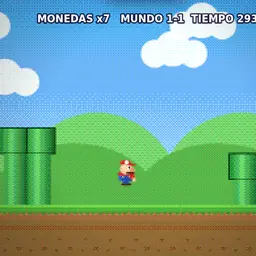
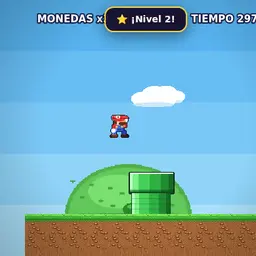
Super Koke: sprites pixel art dibujados a mano (casillas 32px)

diff --git a/mario.html b/mario.html
@@ -1,6 +1,6 @@
 <!doctype html><html lang="es"><head><script src="mute.js"></script><script src="progress.js"></script><script>try{var A=navigator.audioSession;if(A){A.type="ambient";Object.defineProperty(A,"type",{get:function(){return"ambient"},set:function(v){},configurable:true})}}catch(e){}</script><script src="bgm.js" data-track="aventura"></script><meta charset="utf-8"><meta name="viewport" content="width=device-width,initial-scale=1,maximum-scale=1,user-scalable=no,viewport-fit=cover"><meta name="apple-mobile-web-app-status-bar-style" content="black"><meta name="apple-mobile-web-app-capable" content="yes"><meta name="theme-color" content="#4aa8f0"><title>SUPER KOKE</title></head><body><script src="gk.js"></script><script>
 (function(){
-var ROWS=12,TS=39,lv=0,LV=3,G,Wd,en,items,coinsL,pl,cam,t,lives,coins,state,stT,seed,jumpHeld=false,keys={},btn={l:0,r:0,j:0,run:0},blocks,fx,flagX,time,msgT,msg,score0,bump,ptc;
+var ROWS=12,TS=32,lv=0,LV=3,G,Wd,en,items,coinsL,pl,cam,t,lives,coins,state,stT,seed,jumpHeld=false,keys={},btn={l:0,r:0,j:0,run:0},blocks,fx,flagX,time,msgT,msg,score0,bump,ptc;
 function rs(){seed=(seed*16807)%2147483647;return seed/2147483647}
 function R(a,b){return a+rs()*(b-a)}
 function set(x,y,ch){if(x>=0&&x<Wd&&y>=0&&y<ROWS)G[y][x]=ch}
@@ -78,59 +78,97 @@ function update(dt){t+=dt;msgT-=dt;
 function burstE(e){for(var i=0;i<6;i++)fx.push({x:e.x+.5,y:e.y+.5,vx:R(-4,4),vy:R(-9,-2),t:.5,c:'#e8d8a8'})}
 function TSf(){return TS}
 /* ---------- dibujo ---------- */
-function drawHero(c,x,y,s,big,face,an,inv,air){c.save();c.translate(x,y);c.scale(face*s,s);if(inv>0&&Math.floor(inv*14)%2)c.globalAlpha=.4;var h=big?1.85:.95,k=big?1:.5,sw=Math.sin(an)*.22,bob=Math.abs(Math.sin(an))*.03;
- // sombra
- var sc=big?1:.62;c.save();c.translate(0,-.0);
+/* ---------- arte pixel (procedural, 32px por casilla) ---------- */
+var SP={};
+(function(){var P=GK.px,sd=7;function rn(){sd=(sd*16807)%2147483647;return sd/2147483647}
+function T(fn,out){return GK.mkd(32,32,function(x){fn(x)},{out:!!out,sh:false})}
+function sp(x,n,cols,a,b,w,h){for(var i=0;i<n;i++){x.fillStyle=cols[(rn()*cols.length)|0];x.fillRect(a+((rn()*w)|0),b+((rn()*h)|0),1,1)}}
+// suelo
+SP.G=T(function(x){P.r(x,0,0,32,32,'#a8683a');sp(x,90,['#8a5028','#c88a4a','#7a4420','#b87a40'],0,8,32,24);for(var i=0;i<7;i++){var px=(rn()*26)|0,py=12+((rn()*16)|0);P.e(x,px+3,py+2,3,2,'#6a3a18');P.e(x,px+3,py+1.5,2,1,'#d8a468')}
+ P.r(x,0,0,32,9,'#46b838');P.r(x,0,0,32,3,'#7ae858');P.r(x,0,7,32,2,'#2a8a28');for(var k=0;k<8;k++){P.t(x,[k*4,9,k*4+2,13,k*4+4,9],'#2a8a28');P.t(x,[k*4+1,9,k*4+2,11,k*4+3,9],'#46b838')}sp(x,26,['#9af070','#2f9a2c'],0,0,32,8)});
+SP.D=T(function(x){P.r(x,0,0,32,32,'#a8683a');sp(x,150,['#8a5028','#c88a4a','#7a4420','#b87a40'],0,0,32,32);for(var i=0;i<6;i++){var px=(rn()*26)|0,py=(rn()*26)|0;P.e(x,px+3,py+2,3,2,'#6a3a18');P.e(x,px+3,py+1.5,2,1,'#d8a468')}});
+SP.B=T(function(x){P.r(x,0,0,32,32,'#a8401a');for(var j=0;j<4;j++){var y=j*8,o=(j&1)?8:0;P.r(x,0,y,32,1,'#f0a060');P.r(x,0,y+7,32,1,'#4a1a08');for(var i=-1;i<3;i++){var bx=i*16+o;P.r(x,bx+1,y+1,14,6,j%2?'#c85a28':'#d06a30');P.r(x,bx+1,y+1,14,1,'#f09050');P.r(x,bx+1,y+6,14,1,'#8a3410');P.r(x,bx+15,y,1,8,'#4a1a08')}}sp(x,40,['#e88a50','#8a3410'],0,0,32,32)});
+function qb(f){return T(function(x){P.r(x,0,0,32,32,'#7a4a08');P.r(x,1,1,30,30,'#f0b020');P.r(x,2,2,28,26,'#ffd040');P.r(x,2,2,28,2,'#fff0a0');P.r(x,2,2,2,26,'#fff0a0');P.r(x,2,27,28,3,'#c88410');P.r(x,28,2,2,26,'#c88410');[[4,4],[26,4],[4,26],[26,26]].forEach(function(p){P.e(x,p[0]+.5,p[1]+.5,1.6,1.6,'#8a5a08');P.p(x,p[0],p[1],'#ffe080')});
+ x.fillStyle='#6a3a04';var g=[[11,8,10,4],[19,10,4,6],[15,16,6,4],[14,22,4,4]];g.forEach(function(r){x.fillRect(r[0],r[1],r[2],r[3])});x.fillRect(9,11,4,5);P.r(x,13,7,8,2,'#6a3a04');P.r(x,21,9,3,2,'#6a3a04');
+ x.fillStyle='#fff6c0';x.fillRect(11,8,10,1);x.fillRect(9,11,1,4);x.fillRect(14,22,1,4);var sh=Math.floor(f*10)%10;if(f>=0){x.fillStyle='rgba(255,255,255,.85)';x.fillRect(2+sh*3,2,2,26);x.fillStyle='rgba(255,255,255,.5)';x.fillRect(4+sh*3,2,2,26)}})}
+SP.q=[0,1,2,3,4,5].map(function(i){return qb(i/6)});
+SP.U=T(function(x){P.r(x,0,0,32,32,'#4a3220');P.r(x,1,1,30,30,'#8a6a48');P.r(x,2,2,28,26,'#a8845c');P.r(x,2,2,28,2,'#c8a47c');P.r(x,2,27,28,3,'#6a4a2c');P.r(x,28,2,2,26,'#6a4a2c');sp(x,40,['#9a7a52','#b8946a'],3,4,24,22)});
+SP.W=T(function(x){P.r(x,0,0,32,32,'#a89a8c');for(var j=0;j<4;j++){var o=j&1?8:0;P.r(x,0,j*8,32,1,'#5a4a3a');for(var i=-1;i<3;i++){P.r(x,i*16+o,j*8,1,8,'#5a4a3a');P.r(x,i*16+o+1,j*8+1,14,1,'#c8bcb0');P.r(x,i*16+o+1,j*8+6,14,1,'#8a7c6e')}}sp(x,30,['#9a8c7e','#b8aca0'],0,0,32,32)});
+// tuberias (2 casillas de ancho)
+function pcols(w,x,y0,h){var cols=['#b8ffc0','#7af088','#46d058','#2fb040','#228a34','#176a28'];for(var i=0;i<w;i++){var u=i/w;var c3=u<.07?cols[0]:u<.2?cols[1]:u<.45?cols[2]:u<.7?cols[3]:u<.88?cols[4]:cols[5];P.r(x,i,y0,1,h,c3)}}
+SP.pc=GK.mkd(68,32,function(x){pcols(68,x,0,32);P.r(x,0,0,68,2,'#d8ffd8');P.r(x,0,29,68,3,'#0e4a1a');P.r(x,0,0,1,32,'#0e4a1a');P.r(x,67,0,1,32,'#0e4a1a');P.r(x,0,26,68,3,'rgba(10,70,30,.5)')},{out:true,sh:false});
+SP.pb=GK.mkd(60,32,function(x){pcols(60,x,0,32);P.r(x,0,0,1,32,'#0e4a1a');P.r(x,59,0,1,32,'#0e4a1a');for(var j=0;j<32;j+=8)P.r(x,1,j,58,1,'rgba(10,70,30,.25)')},{out:false,sh:false});
+// bandera
+SP.F=GK.mkd(32,32,function(x){P.r(x,13,0,6,32,'#aab0c0');P.r(x,13,0,2,32,'#e8ecf4');P.r(x,17,0,2,32,'#6a7088')},{out:false,sh:false});
+SP.f=GK.mkd(32,32,function(x){P.r(x,13,12,6,20,'#aab0c0');P.r(x,13,12,2,20,'#e8ecf4');P.e(x,16,10,8,8,'#ffd23a');P.e(x,14,8,3,3,'#fff6a0');P.e(x,16,10,8,8,'rgba(0,0,0,0)')},{out:false,sh:false});
+SP.flag=GK.mkd(30,22,function(x){P.t(x,[0,11,30,0,30,22],'#e8302a');P.t(x,[0,11,30,0,30,5],'#ff6a5a');P.e(x,22,11,4,4,'#fff')},{out:true,sh:false});
+// moneda
+SP.c=[0,1,2,3].map(function(i){var w=[14,9,4,9][i];return GK.mkd(20,28,function(x){P.e(x,10,14,w/2+.5,13,'#c88a08');P.e(x,10,14,w/2-.5,12,'#ffd23a');P.e(x,10-w*.12,11,Math.max(.8,w/6),6,'#fff2a0');if(w>8){P.r(x,9,8,2,12,'#e8a818')}},{out:true,sh:false})});
+// heroe
+function hero(big,pose){var Hh=big?58:34;return GK.mkd(28,Hh,function(x){var cap='#e8302a',capD='#a81c1c',capL='#ff7a6a',sk='#ffd2a4',skD='#e09a6c',hr='#5a3416',ov='#3a66e4',ovD='#2646aa',ovL='#7a9cff',gl='#ffffff',sh='#6a3a1a',shD='#3e2010';
+ var ly=big?42:23,top=big?16:12,ap=pose===3;
  // piernas
- var ly=-.34*sc;c.fillStyle='#2a4aa8';c.beginPath();c.roundRect(-.2+sw*.5,ly,.2,.34*sc,.05);c.roundRect(.0-sw*.5,ly,.2,.34*sc,.05);c.fill();c.fillStyle='#5a2a14';c.beginPath();c.roundRect(-.26+sw*.5,-.1*sc,.3,.1*sc,.04);c.roundRect(-.02-sw*.5,-.1*sc,.3,.1*sc,.04);c.fill();
- if(air){c.restore();c.save();c.translate(0,0)}
+ var lA=0,lB=0,fA=0,fB=0;if(pose===1){lA=-3;lB=3;fA=-2;fB=3}else if(pose===2){lA=3;lB=-3;fA=3;fB=-2}else if(pose===3){lA=-4;lB=3}
+ var lh=Hh-ly-4;P.r(x,7+lA,ly,6,lh,ov);P.r(x,15+lB,ly,6,lh,ovD);P.r(x,7+lA,ly,2,lh,ovL);
+ P.r(x,5+lA+fA,Hh-5,10,4,sh);P.r(x,4+lA+fA,Hh-4,3,3,shD);P.r(x,5+lA+fA,Hh-5,10,1,'#9a5a2a');P.r(x,14+lB+fB,Hh-5,10,4,shD);P.r(x,22+lB+fB,Hh-4,3,3,'#2a1408');
  // torso
- var ty=-.8*sc;var g=c.createLinearGradient(-.25,0,.25,0);g.addColorStop(0,'#3a62d0');g.addColorStop(1,'#243e90');c.fillStyle=g;c.beginPath();c.roundRect(-.25,ty+.1*sc,.5,.48*sc,.08);c.fill();c.fillStyle='#d8302a';c.beginPath();c.roundRect(-.27,ty+.1*sc,.54,.18*sc,.06);c.fill();c.fillStyle='#ffd23a';c.beginPath();c.arc(-.1,ty+.34*sc,.03,0,7);c.arc(.1,ty+.34*sc,.03,0,7);c.fill();
- // brazo
- c.fillStyle='#d8302a';c.beginPath();c.roundRect(.12,ty+.12*sc,.16,.34*sc,.06);c.fill();c.fillStyle='#f4c8a0';c.beginPath();c.arc(.22+sw*.2,ty+.5*sc,.07,0,7);c.fill();
+ var th=ly-top+1;P.r(x,7,top,14,th,ov);P.r(x,7,top,3,th,ovL);P.r(x,18,top,3,th,ovD);P.r(x,6,top,16,Math.round(th*.28),cap);P.r(x,6,top,16,1,capL);P.r(x,6,top+Math.round(th*.28)-1,16,1,capD);
+ P.r(x,9,top+1,2,th*.45,ov);P.r(x,17,top+1,2,th*.45,ov);P.e(x,10,top+Math.round(th*.4),1.6,1.6,'#ffd23a');P.e(x,18,top+Math.round(th*.4),1.6,1.6,'#ffd23a');P.r(x,11,ly-3,6,3,ovD);
+ // brazos
+ if(ap){P.r(x,20,top-3,5,9,cap);P.r(x,20,top-3,2,9,capL);P.e(x,23,top-5,3.4,3.4,gl);P.r(x,3,top+2,5,8,cap);P.e(x,5,top+11,3.2,3.2,gl)}
+ else{var sw=pose===1?2:pose===2?-2:0;P.r(x,19+sw,top+1,5,Math.round(th*.45),cap);P.r(x,19+sw,top+1,2,Math.round(th*.45),capL);P.e(x,22+sw,top+Math.round(th*.45)+3,3.2,3.2,gl);P.r(x,3-sw,top+1,5,Math.round(th*.4),capD);P.e(x,5-sw,top+Math.round(th*.4)+3,3,3,gl)}
  // cabeza
- var hy=-1.0*sc;if(!big)hy=-.88*sc;var hg=c.createRadialGradient(-.05,hy-.05,.02,0,hy,.3);hg.addColorStop(0,'#ffd8b0');hg.addColorStop(1,'#e8a878');c.fillStyle=hg;c.beginPath();c.ellipse(0,hy,.27*sc+.04,.27*sc+.03,0,0,7);c.fill();c.fillStyle='#e89a68';c.beginPath();c.ellipse(.2,hy+.04,.09,.08,0,0,7);c.fill();
- c.fillStyle='#fff';c.beginPath();c.ellipse(.09,hy-.04,.06,.075,0,0,7);c.fill();c.fillStyle='#111';c.beginPath();c.arc(.11,hy-.04,.032,0,7);c.fill();c.fillStyle='#4a2a14';c.beginPath();c.roundRect(.0,hy+.1,.28,.07,.03);c.fill();
+ P.e(x,14,7.5,8.8,7.6,sk);P.e(x,10,6,4,3,'#ffe6c4');P.e(x,19.5,9.5,3.6,3.2,skD);
+ P.e(x,12.5,6.8,2,2.6,'#fff');P.r(x,13,6,2,3,'#16101f');P.p(x,13,6,'#8ab0ff');
+ P.e(x,21,9.5,3,2.4,skD);P.r(x,13,11,11,3,hr);P.r(x,14,10,10,1,hr);P.r(x,15,14,4,1,hr);
+ P.r(x,5,5,5,8,hr);P.r(x,6,3,4,3,hr);
  // gorra
- c.fillStyle='#d8302a';c.beginPath();c.ellipse(-.02,hy-.14,.29*sc+.02,.2*sc+.03,0,Math.PI,0);c.fill();c.beginPath();c.roundRect(.05,hy-.17,.28,.07,.03);c.fill();c.fillStyle='#fff';c.beginPath();c.arc(.02,hy-.22,.07,0,7);c.fill();
- c.restore();c.restore()}
-function drawGoomba(c,e,x,y,s){c.save();c.translate(x,y);c.scale(s,s);if(e.dead){c.scale(1,.25);c.translate(0,-.1)}var sw=Math.sin((e.an||0))*.1;shade(c,0,0,.4,.05,'rgba(0,0,0,.2)');c.fillStyle='#3a2410';c.beginPath();c.roundRect(-.28+sw,-.16,.24,.16,.05);c.roundRect(.04-sw,-.16,.24,.16,.05);c.fill();var g=c.createRadialGradient(-.1,-.55,.05,0,-.4,.5);g.addColorStop(0,'#c8844a');g.addColorStop(1,'#7a4a22');c.fillStyle=g;c.beginPath();c.moveTo(-.42,-.2);c.quadraticCurveTo(-.46,-.88,0,-.9);c.quadraticCurveTo(.46,-.88,.42,-.2);c.closePath();c.fill();c.fillStyle='#f0d8b0';c.beginPath();c.roundRect(-.2,-.34,.4,.2,.05);c.fill();c.fillStyle='#fff';c.beginPath();c.ellipse(-.15,-.56,.1,.12,0,0,7);c.ellipse(.15,-.56,.1,.12,0,0,7);c.fill();c.fillStyle='#111';c.beginPath();c.arc(-.12,-.55,.045,0,7);c.arc(.12,-.55,.045,0,7);c.fill();c.strokeStyle='#2a1408';c.lineWidth=.06;c.beginPath();c.moveTo(-.28,-.72);c.lineTo(-.06,-.64);c.moveTo(.28,-.72);c.lineTo(.06,-.64);c.stroke();c.restore()}
-function shade(c,x,y,rx,ry,col){c.fillStyle=col;c.beginPath();c.ellipse(x,y,rx,ry,0,0,7);c.fill()}
-function drawKoopa(c,e,x,y,s){c.save();c.translate(x,y);c.scale(s,s);if(e.vx>0&&e.sh===0)c.scale(-1,1);var sw=Math.sin((e.an||0))*.1;shade(c,0,0,.4,.05,'rgba(0,0,0,.2)');
- if(e.sh===0){c.fillStyle='#f0c850';c.beginPath();c.roundRect(-.2+sw,-.28,.16,.28,.05);c.roundRect(.04-sw,-.28,.16,.28,.05);c.fill();c.fillStyle='#78c850';c.beginPath();c.ellipse(-.2,-.98,.18,.2,0,0,7);c.fill();c.fillStyle='#f4d878';c.beginPath();c.roundRect(-.3,-.96,.2,.1,.04);c.fill();c.fillStyle='#fff';c.beginPath();c.arc(-.24,-1.02,.07,0,7);c.fill();c.fillStyle='#111';c.beginPath();c.arc(-.26,-1.02,.032,0,7);c.fill();c.fillStyle='#78c850';c.beginPath();c.roundRect(-.14,-.9,.28,.4,.1);c.fill()}
- var sy=e.sh===0?-.5:-.05;c.translate(0,e.sh===0?0:0);var g=c.createRadialGradient(-.1,sy-.3,.05,0,sy-.25,.5);g.addColorStop(0,'#58e060');g.addColorStop(1,'#1a8a2a');c.fillStyle=g;c.beginPath();c.ellipse(.05,e.sh===0?-.5:-.32,.4,e.sh===0?.32:.3,0,Math.PI,0);c.lineTo(.45,e.sh===0?-.22:-.02);c.lineTo(-.35,e.sh===0?-.22:-.02);c.fill();c.fillStyle='#f4e8b8';c.fillRect(-.35,e.sh===0?-.24:-.04,.8,.06);c.strokeStyle='#0a5a14';c.lineWidth=.04;c.beginPath();c.moveTo(-.05,e.sh===0?-.78:-.6);c.lineTo(-.05,e.sh===0?-.24:-.04);c.moveTo(.2,e.sh===0?-.74:-.56);c.lineTo(.2,e.sh===0?-.24:-.04);c.stroke();c.restore()}
-function drawTile(c,ch,x,y,s,t,bumpY){var g;switch(ch){
- case 'G':g=c.createLinearGradient(0,y,0,y+s);g.addColorStop(0,'#c08a52');g.addColorStop(1,'#8a5a2a');c.fillStyle=g;c.fillRect(x,y,s+1,s+1);c.fillStyle='#4fb83a';c.fillRect(x,y,s+1,s*.28);c.fillStyle='#7ad850';c.fillRect(x,y,s+1,s*.1);c.fillStyle='#3a9a2a';for(var i=0;i<4;i++){c.beginPath();c.moveTo(x+i*s/4,y+s*.28);c.lineTo(x+i*s/4+s/8,y+s*.4);c.lineTo(x+i*s/4+s/4,y+s*.28);c.fill()}break;
- case 'D':c.fillStyle='#9a6a38';c.fillRect(x,y,s+1,s+1);c.fillStyle='rgba(60,30,10,.25)';c.fillRect(x+s*.2,y+s*.3,s*.15,s*.12);c.fillRect(x+s*.6,y+s*.65,s*.2,s*.12);c.fillRect(x+s*.1,y+s*.75,s*.12,s*.1);break;
- case 'B':c.fillStyle='#c0582a';c.fillRect(x,y,s+1,s+1);c.fillStyle='#e08a50';c.fillRect(x,y,s+1,3);c.strokeStyle='#5a2810';c.lineWidth=2;c.strokeRect(x+1,y+1,s-2,s-2);c.beginPath();c.moveTo(x,y+s/2);c.lineTo(x+s,y+s/2);c.moveTo(x+s/2,y);c.lineTo(x+s/2,y+s/2);c.moveTo(x+s*.25,y+s/2);c.lineTo(x+s*.25,y+s);c.moveTo(x+s*.75,y+s/2);c.lineTo(x+s*.75,y+s);c.stroke();break;
- case '?':case 'M':var pu=.5+.5*Math.sin(t*6);g=c.createLinearGradient(0,y,0,y+s);g.addColorStop(0,'#ffe066');g.addColorStop(1,'#e8a010');c.fillStyle=g;c.beginPath();c.roundRect(x+1,y+1,s-2,s-2,5);c.fill();c.strokeStyle='#8a5a08';c.lineWidth=2;c.stroke();c.fillStyle='rgba(120,70,0,.5)';[[6,6],[s-6,6],[6,s-6],[s-6,s-6]].forEach(function(p){c.beginPath();c.arc(x+p[0],y+p[1],2,0,7);c.fill()});c.fillStyle='#fff';c.font='900 '+(s*.62)+'px sans-serif';c.textAlign='center';c.textBaseline='middle';c.globalAlpha=.7+pu*.3;c.fillText('?',x+s/2,y+s/2+1);c.globalAlpha=1;break;
- case 'U':c.fillStyle='#8a6a4a';c.beginPath();c.roundRect(x+1,y+1,s-2,s-2,5);c.fill();c.strokeStyle='#4a3420';c.lineWidth=2;c.stroke();break;
- case 'p':case 'q':g=c.createLinearGradient(x,0,x+s,0);g.addColorStop(0,'#2a9a3a');g.addColorStop(.4,'#68e070');g.addColorStop(1,'#1a6a2a');c.fillStyle=g;c.fillRect(x-(ch==='p'?4:0),y,s+(ch==='q'?4:0)+(ch==='p'?4:0),s);c.strokeStyle='#0a3a14';c.lineWidth=2;c.strokeRect(x-(ch==='p'?4:0),y,s+4,s);break;
- case 'l':case 'r':g=c.createLinearGradient(x,0,x+s,0);g.addColorStop(0,'#2a9a3a');g.addColorStop(.4,'#68e070');g.addColorStop(1,'#1a6a2a');c.fillStyle=g;c.fillRect(x+(ch==='l'?4:0),y,s-4+1,s+1);break;
- case 'W':c.fillStyle='#b8a090';c.fillRect(x,y,s+1,s+1);c.strokeStyle='#6a5a4a';c.lineWidth=2;c.strokeRect(x,y,s,s);break;
- case 'F':c.fillStyle='#d8dce8';c.fillRect(x+s*.44,y,s*.12,s+1);break;
- case 'f':c.fillStyle='#ffd23a';c.beginPath();c.arc(x+s/2,y+s/2,s*.2,0,7);c.fill();var wv=Math.sin(t*5)*3;c.fillStyle='#e8302a';c.beginPath();c.moveTo(x+s*.5,y+s*.25);c.lineTo(x-s*.7+wv,y+s*.5);c.lineTo(x+s*.5,y+s*.8);c.fill();break;
- case 'c':var sq=Math.abs(Math.cos(t*4+x*.05));c.fillStyle='#ffd23a';c.beginPath();c.ellipse(x+s/2,y+s/2,s*.18*sq+2,s*.28,0,0,7);c.fill();c.strokeStyle='#c88a08';c.lineWidth=2;c.stroke();break}}
-function draw(c,W,H){TS=H/10;var ts=TS,T0=performance.now()/1000,OFF=H-ROWS*TS;
- // cielo
- var sk=c.createLinearGradient(0,0,0,H);sk.addColorStop(0,'#4aa8f0');sk.addColorStop(1,'#bfe6ff');c.fillStyle=sk;c.fillRect(0,0,W,H);
- if(!G)return;var cm=cam*ts;c.save();c.translate(0,OFF);
- // colinas lejanas
- for(var layer=0;layer<2;layer++){var par=layer?.35:.15;c.fillStyle=layer?'#5ab84a':'#7ad06a';for(var hx=-1;hx<W/200+2;hx++){var bx=hx*220-(cm*par)%220,bh=ts*(layer?2.4:3.6);c.beginPath();c.ellipse(bx+100,ts*10,130,bh,0,Math.PI,0);c.fill()}}
- // nubes
- c.fillStyle='rgba(255,255,255,.92)';for(var n=0;n<8;n++){var nx=((n*300-cm*.25)%(W+400)+W+400)%(W+400)-100,ny=ts*(3+(n%3)*1.1);c.beginPath();c.arc(nx,ny,ts*.55,0,7);c.arc(nx+ts*.7,ny-ts*.2,ts*.7,0,7);c.arc(nx+ts*1.5,ny,ts*.55,0,7);c.fill()}
- var x0=Math.floor(cam)-1,x1=Math.ceil(cam+W/ts)+1;
- // castillo
- for(var yy=0;yy<ROWS;yy++)for(var xx=x0;xx<=x1;xx++){var ch=get(xx,yy);if(ch==='.')continue;var bump=0;blocks.forEach(function(b){if(b.x===xx&&b.y===yy)bump=-Math.sin(b.t/.2*Math.PI)*ts*.3});drawTile(c,ch,xx*ts-cm,yy*ts+bump,ts,T0)}
- // items
- items.forEach(function(it){var x=it.x*ts-cm,y=it.y*ts;if(it.t==='coin'){drawTile(c,'c',x,y-ts,ts,T0);return}c.save();c.translate(x+ts*.45,y);var g=c.createRadialGradient(-5,-ts*.5,3,0,-ts*.4,ts*.5);g.addColorStop(0,'#ff8a6a');g.addColorStop(1,'#c02020');c.fillStyle=g;c.beginPath();c.ellipse(0,-ts*.52,ts*.46,ts*.4,0,Math.PI,0);c.fill();c.fillStyle='#f4e8c0';c.fillRect(-ts*.24,-ts*.52,ts*.48,ts*.5);c.fillStyle='#fff';c.beginPath();c.arc(-ts*.18,-ts*.7,ts*.1,0,7);c.arc(ts*.18,-ts*.66,ts*.09,0,7);c.fill();c.fillStyle='#111';c.fillRect(-ts*.1,-ts*.35,ts*.05,ts*.1);c.fillRect(ts*.06,-ts*.35,ts*.05,ts*.1);c.restore()});
- en.forEach(function(e){var x=e.x*ts-cm+ts*.5,y=(e.y+1)*ts;if(x<-ts*2||x>W+ts*2)return;if(e.t==='g')drawGoomba(c,e,x,y,ts);else drawKoopa(c,e,x,y,ts)});
- if(!pl.dead||state==='dead')drawHero(c,(pl.x+.5)*ts-cm,pl.y*ts,ts*1.18,pl.big,pl.face,pl.anim,pl.inv,!pl.g);
- fx.forEach(function(f){c.globalAlpha=Math.max(0,f.t*2);c.fillStyle=f.c;c.fillRect(f.x*ts-cm,f.y*ts,ts*.14,ts*.14)});c.globalAlpha=1;c.restore();
- // HUD
+ P.e(x,13,3.5,10.5,5.5,cap);P.r(x,3,3,20,2,capD);P.e(x,10,1.6,5,2,capL);P.r(x,17,1,9,3,cap);P.r(x,20,3,8,2,capD);P.r(x,19,2,8,1,capL);P.e(x,12,2.2,3.2,2.6,'#fff');P.r(x,11,1,2,3,cap);
+ },{out:true,sh:false})}
+SP.h=[0,1,2,3].map(function(i){return hero(false,i)});SP.H=[0,1,2,3].map(function(i){return hero(true,i)});
+// goomba
+function goomba(f){return GK.mkd(30,30,function(x){var o=f?2:0;P.e(x,9-o,26,5.5,3.4,'#3a2010');P.e(x,21+o,26,5.5,3.4,'#3a2010');P.r(x,3-o,24,9,4,'#4a2a14');P.r(x,18+o,24,9,4,'#4a2a14');
+ var g=['#6a3a18','#8a5226','#a8683a','#c8844a'];P.e(x,15,13,14,12.5,g[0]);P.e(x,15,12,13,11.5,g[1]);P.e(x,14,10.5,11,9.5,g[2]);P.e(x,12,8,6,5,g[3]);
+ P.e(x,15,21,8,5,'#f4dcb4');P.r(x,6,19,18,5,'#f4dcb4');P.r(x,7,24,16,1,'#d8b888');
+ P.e(x,10,16,3.6,4.4,'#fff');P.e(x,20,16,3.6,4.4,'#fff');P.r(x,11,15,2,4,'#16101f');P.r(x,19,15,2,4,'#16101f');P.p(x,11,15,'#fff');P.p(x,19,15,'#fff');
+ P.t(x,[5,11,13,14,13,16],'#2a1408');P.t(x,[25,11,17,14,17,16],'#2a1408');P.r(x,13,22,4,2,'#fff');P.p(x,13,23,'#d8d0c0')},{out:true,sh:false})}
+SP.g=[goomba(0),goomba(1)];
+SP.gd=GK.mkd(30,12,function(x){P.e(x,15,9,14,5.5,'#7a4624');P.e(x,15,8,12,4,'#a8683a');P.r(x,6,6,18,3,'#f4dcb4');P.e(x,10,7,2,1.5,'#16101f');P.e(x,20,7,2,1.5,'#16101f');P.r(x,4,10,22,2,'#3a2010')},{out:true,sh:false});
+// koopa
+function koopa(f){return GK.mkd(30,44,function(x){var o=f?2:0;P.r(x,8-o,36,8,6,'#f0c850');P.r(x,16+o,36,8,6,'#f0c850');P.r(x,6-o,40,11,4,'#e8902a');P.r(x,16+o,40,11,4,'#e8902a');P.r(x,8-o,36,2,5,'#ffe480');
+ P.e(x,15,28,11,10,'#2a9a3a');P.e(x,15,27,10,9,'#3ac84a');P.e(x,13,24,5,4,'#7af080');P.r(x,6,32,18,4,'#f0e0a8');
+ var hx=[[10,26],[20,26],[15,31],[10,33],[20,33]];P.r(x,14,21,2,14,'#1a7a2a');P.r(x,8,27,14,2,'#1a7a2a');P.r(x,6,32,18,1,'#8a7a40');
+ P.e(x,9,17,6,5.6,'#4ac85a');P.e(x,8,15,3,3,'#8af090');P.r(x,3,17,10,5,'#f0d878');P.e(x,6,20.5,3.6,2.6,'#f0d878');P.e(x,10,15,2.6,3.4,'#fff');P.r(x,9,14,2,4,'#16101f');P.r(x,4,13,5,1,'#16101f');
+ P.r(x,18,22,8,5,'#f0c850');P.e(x,24,26,3,3,'#f0c850');P.p(x,13,2,'#16101f')},{out:true,sh:false})}
+SP.k=[koopa(0),koopa(1)];
+SP.s=GK.mkd(30,26,function(x){P.e(x,15,17,13,10,'#1a8a2a');P.e(x,15,16,12,9,'#3ac84a');P.e(x,12,12,5,4,'#7af080');P.r(x,3,21,24,4,'#f0e0a8');P.r(x,3,24,24,1,'#8a7a40');P.r(x,14,8,2,16,'#1a7a2a');P.r(x,6,16,18,2,'#1a7a2a');P.e(x,6,20,2,2,'#f0d878');P.e(x,24,20,2,2,'#f0d878')},{out:true,sh:false});
+// seta
+SP.m=GK.mkd(30,30,function(x){P.r(x,7,18,16,10,'#f4e4bc');P.r(x,7,26,16,2,'#c8b078');P.e(x,15,12,14,11,'#d8301c');P.e(x,15,11,13,10,'#f04a30');P.e(x,12,7,6,4,'#ff8a70');P.e(x,6,12,4,4,'#fff');P.e(x,24,12,4,4,'#fff');P.e(x,15,7,4.4,3.4,'#fff');P.r(x,10,20,3,5,'#16101f');P.r(x,17,20,3,5,'#16101f');P.p(x,10,20,'#fff');P.p(x,17,20,'#fff')},{out:true,sh:false});
+// decorado
+SP.cloud=[26,36,22].map(function(w,i){return GK.mkd(w*3,w*1.4,function(x){var W=w*3,H=w*1.4;P.e(x,W*.3,H*.62,W*.24,H*.3,'#ffffff');P.e(x,W*.52,H*.46,W*.26,H*.38,'#ffffff');P.e(x,W*.74,H*.62,W*.22,H*.3,'#ffffff');P.r(x,W*.15,H*.62,W*.7,H*.3,'#ffffff');P.e(x,W*.5,H*.86,W*.4,H*.1,'#cfe6f8');P.e(x,W*.42,H*.34,W*.1,H*.12,'#f4fbff')},{out:false,sh:false})});
+SP.hill=GK.mkd(150,64,function(x){P.e(x,75,64,74,60,'#4fb04a');P.e(x,75,64,70,56,'#62c85a');P.e(x,62,36,34,20,'#7ae070');P.e(x,100,58,26,14,'#58bc50');for(var i=0;i<14;i++){var px=10+((i*47)%130),py=24+((i*29)%34);P.e(x,px,py,3,1.6,'#4aa044')}P.e(x,75,64,74,2,'#3a8a38')},{out:false,sh:false});
+SP.bush=GK.mkd(64,30,function(x){P.e(x,14,22,13,9,'#2a8a2a');P.e(x,32,16,16,14,'#34a034');P.e(x,50,22,13,9,'#2a8a2a');P.r(x,6,24,52,5,'#2a8a2a');P.e(x,30,12,7,4,'#6adc5a');P.e(x,12,18,4,3,'#58c848');P.e(x,50,18,4,3,'#58c848');for(var i=0;i<10;i++)P.p(x,8+i*5,26,'#1a6a1a')},{out:false,sh:false});
+})();
+GK.S=SP;
+
+function draw(c,W,H){var ts=TS,T0=performance.now()/1000,OFF=H-ROWS*ts;
+ var bands=['#58b4f0','#68beF4','#7ac8f6','#90d4f8','#aae0fa'];for(var i=0;i<5;i++){c.fillStyle=bands[i];c.fillRect(0,i*H/5,W,H/5+1)}
+ if(!G)return;var cm=Math.round(cam*ts);c.save();c.translate(0,OFF);var gy=10*ts;
+ for(var n=0;n<9;n++){var cl=SP.cloud[n%3],nx=((n*330-cm*.15)%(W+500)+W+500)%(W+500)-200;GK.spr(c,cl,nx,ts*(1.2+(n%4)*1.3),{ox:0,oy:0})}
+ for(var h=-1;h<W/300+2;h++){var hx=h*320-(cm*.3)%320;GK.spr(c,SP.hill,hx+60,gy+2,{ox:0,oy:1,s:1.3})}
+ for(var b=-1;b<W/420+2;b++){var bx=b*430-(cm*.6)%430;GK.spr(c,SP.bush,bx+120,gy+2,{ox:0,oy:1,s:1.1})}
+ var x0=Math.floor(cam)-1,x1=Math.ceil(cam+W/ts)+1,fr=Math.floor(T0*8)%6;
+ for(var yy=0;yy<ROWS;yy++)for(var xx=x0;xx<=x1;xx++){var ch=get(xx,yy);if(ch==='.')continue;var bump=0;for(var k=0;k<blocks.length;k++){var bb=blocks[k];if(bb.x===xx&&bb.y===yy)bump=-Math.sin(bb.t/.2*Math.PI)*ts*.35}var px=xx*ts-cm,py=yy*ts+bump;
+  if(ch==='G')GK.spr(c,SP.G,px,py,{ox:0,oy:0});else if(ch==='D')GK.spr(c,SP.D,px,py,{ox:0,oy:0});else if(ch==='B')GK.spr(c,SP.B,px,py,{ox:0,oy:0});else if(ch==='?'||ch==='M')GK.spr(c,SP.q[fr],px,py,{ox:0,oy:0});else if(ch==='U')GK.spr(c,SP.U,px,py,{ox:0,oy:0});else if(ch==='W')GK.spr(c,SP.W,px,py,{ox:0,oy:0});
+  else if(ch==='p')GK.spr(c,SP.pc,px-2,py,{ox:0,oy:0});else if(ch==='l')GK.spr(c,SP.pb,px+2,py,{ox:0,oy:0});
+  else if(ch==='F')GK.spr(c,SP.F,px,py,{ox:0,oy:0});else if(ch==='f'){GK.spr(c,SP.f,px,py,{ox:0,oy:0});GK.spr(c,SP.flag,px-26+Math.sin(T0*5)*2,py+10+(state==='win'?pl.flag*ts*6:0),{ox:0,oy:0})}
+  else if(ch==='c'){var cf=Math.floor(T0*8+xx)%4;GK.spr(c,SP.c[cf],px+6,py+2,{ox:0,oy:0})}}
+ for(var ii=0;ii<items.length;ii++){var it=items[ii],ix=it.x*ts-cm,iy=it.y*ts;if(it.t==='coin')GK.spr(c,SP.c[Math.floor(T0*12)%4],ix+6,iy-ts*1.3,{ox:0,oy:0});else GK.spr(c,SP.m,ix+ts*.45,iy,{})}
+ for(var ei=0;ei<en.length;ei++){var e=en[ei],ex=e.x*ts-cm+ts*.5,ey=(e.y+1)*ts;if(ex<-60||ex>W+60)continue;if(e.t==='g'){if(e.dead)GK.spr(c,SP.gd,ex,ey,{});else GK.spr(c,SP.g[Math.floor((e.an||0))%2],ex,ey,{})}else{if(e.sh>0)GK.spr(c,SP.s,ex,ey,{});else GK.spr(c,SP.k[Math.floor((e.an||0))%2],ex,ey,{f:e.vx>0})}}
+ if(!pl.dead||state==='dead'){var pose=!pl.g?3:(Math.abs(pl.vx)>.6?1+(Math.floor(pl.anim*1.1)%2):0);if(state==='win'&&pl.flag<1)pose=3;GK.spr(c,(pl.big?SP.H:SP.h)[pose],(pl.x+.5)*ts-cm,pl.y*ts,{f:pl.face<0,a:(pl.inv>0&&Math.floor(pl.inv*14)%2)?.4:1})}
+ for(var fi=0;fi<fx.length;fi++){var f=fx[fi];c.globalAlpha=Math.max(0,f.t*2);c.fillStyle=f.c;c.fillRect(Math.round(f.x*ts-cm),Math.round(f.y*ts),5,5)}c.globalAlpha=1;c.restore();
  GK.text('MONEDAS x'+coins,W/2-110,30,15,'#fff');GK.text('MUNDO 1-'+(lv+1),W/2+10,30,15,'#fff');GK.text('TIEMPO '+Math.max(0,Math.ceil(time||0)),W/2+120,30,15,'#fff');GK.text('VIDAS x'+lives,W/2+240>W-90?W-70:W/2+240,52,13,'#ffd23a');
  if(msgT>0)GK.text(msg,W/2,H*.3,32,'#fff');
- // botones
  var by=H-84;pad(c,16,by,70,70,'<',btn.l);pad(c,96,by,70,70,'>',btn.r);pad(c,W-96,by,80,80,'SALTO',btn.j);pad(c,W-186,by+8,66,66,'CORRER',btn.run)}
 function pad(c,x,y,w,h,txt,on){c.fillStyle=on?'rgba(255,120,60,.7)':'rgba(20,20,30,.45)';c.beginPath();c.arc(x+w/2,y+h/2,w/2,0,7);c.fill();c.strokeStyle='rgba(255,255,255,.6)';c.lineWidth=2;c.stroke();GK.text(txt,x+w/2,y+h/2,txt.length>1?13:30,'#fff','center',false)}
 var pts={};
@@ -138,7 +176,7 @@ function hitBtn(x,y){var W=GK.W(),H=GK.H(),by=H-84;function inn(bx,byy,w,h){retu
 function recalc(){btn.l=btn.r=btn.j=btn.run=0;for(var k in pts){var b=hitBtn(pts[k][0],pts[k][1]);if(b)btn[b]=1}}
 function down(x,y,e){pts[e.pointerId]=[x,y];recalc()}function move(x,y,e){if(pts[e.pointerId]){pts[e.pointerId]=[x,y];recalc()}}function up(x,y,e){delete pts[e.pointerId];recalc()}
 function key(c){keys[c]=1}window.addEventListener('keyup',function(e){keys[e.code]=0});
-GK.start({px:2,title:'SUPER KOKE',color:'#e8402a',bg:'#4aa8f0',help:'Corre y salta por 3 mundos: pisa a los enemigos, rompe ladrillos, coge setas y llega a la bandera. Izquierda: flechas · Derecha: SALTO (mantén para saltar más alto) y CORRER.',reset:reset,update:update,draw:draw,down:down,move:move,up:up,key:key});
+GK.start({px:1,dither:false,title:'SUPER KOKE',color:'#e8402a',bg:'#4aa8f0',help:'Corre y salta por 3 mundos: pisa a los enemigos, rompe ladrillos, coge setas y llega a la bandera. Izquierda: flechas · Derecha: SALTO (mantén para saltar más alto) y CORRER.',reset:reset,update:update,draw:draw,down:down,move:move,up:up,key:key});
 })();
 
 </script></body></html>

diff --git a/sw.js b/sw.js
@@ -1,6 +1,6 @@
 // Mis Apps: modo offline.
 // Cambia el número de versión si quieres forzar una recarga completa.
-const CORE = 'mis-juegos-core-v172';
+const CORE = 'mis-juegos-core-v173';
 const RUN = 'mis-juegos-run-v3';
 const HEAVY_CACHE = 'mis-juegos-heavy-v1';
 const PRECACHE = [
